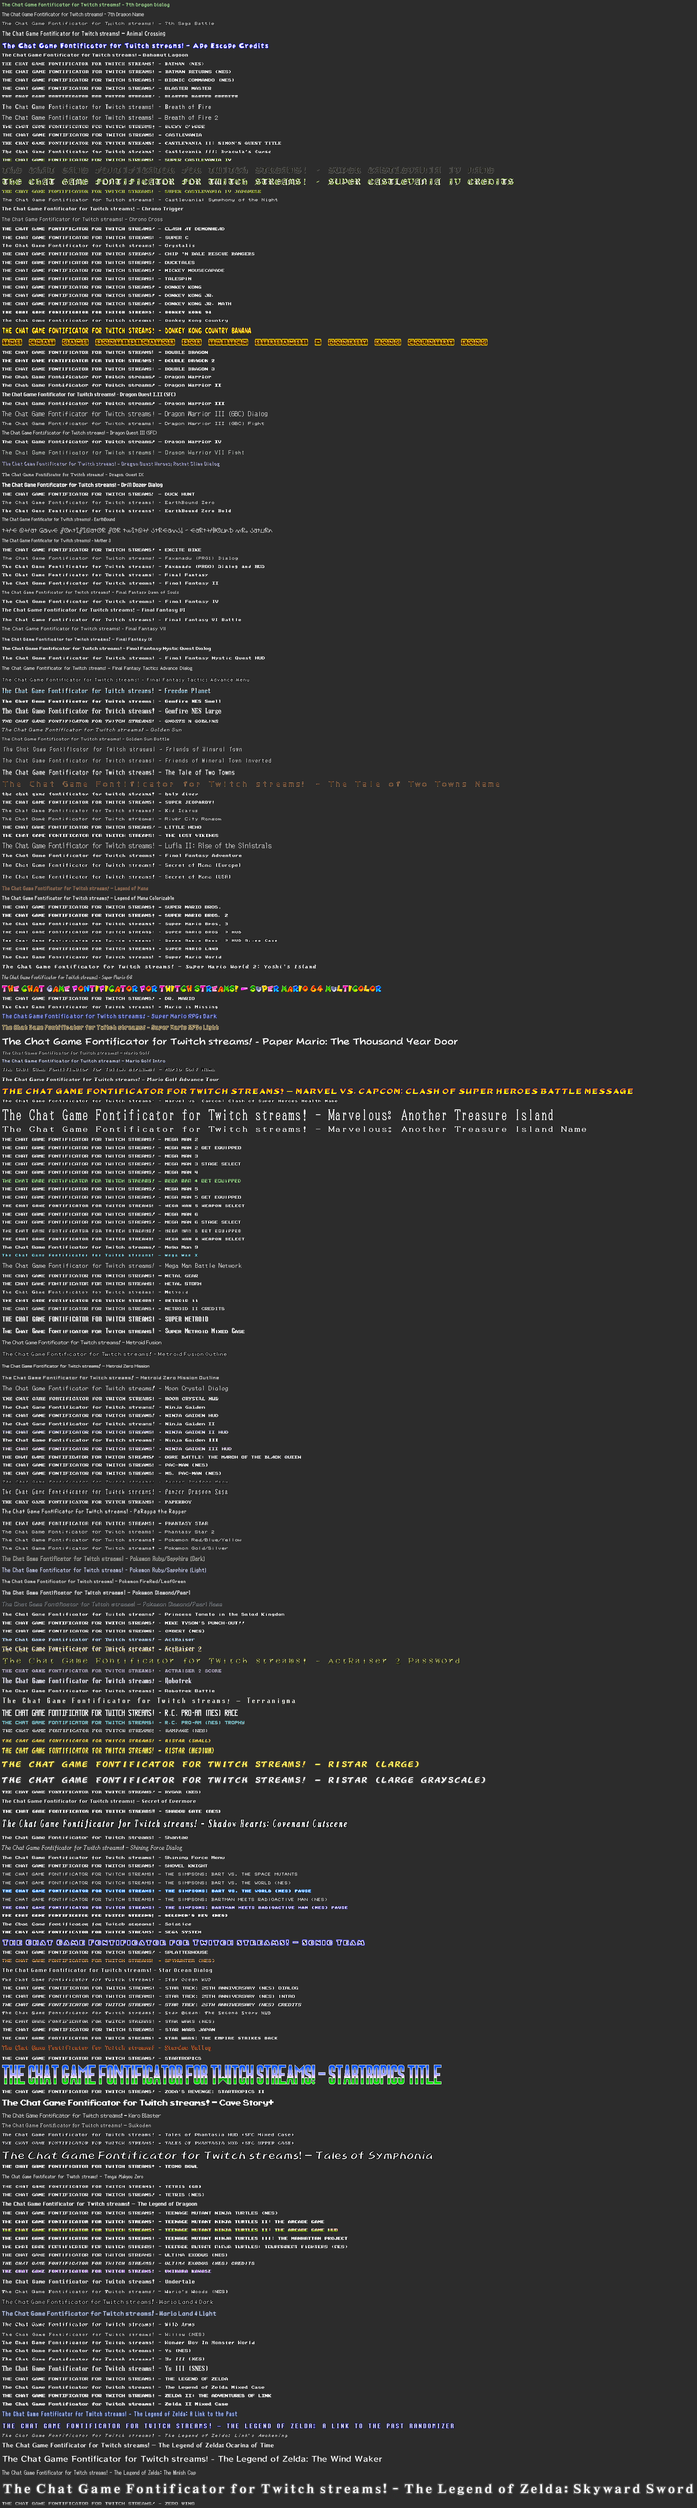
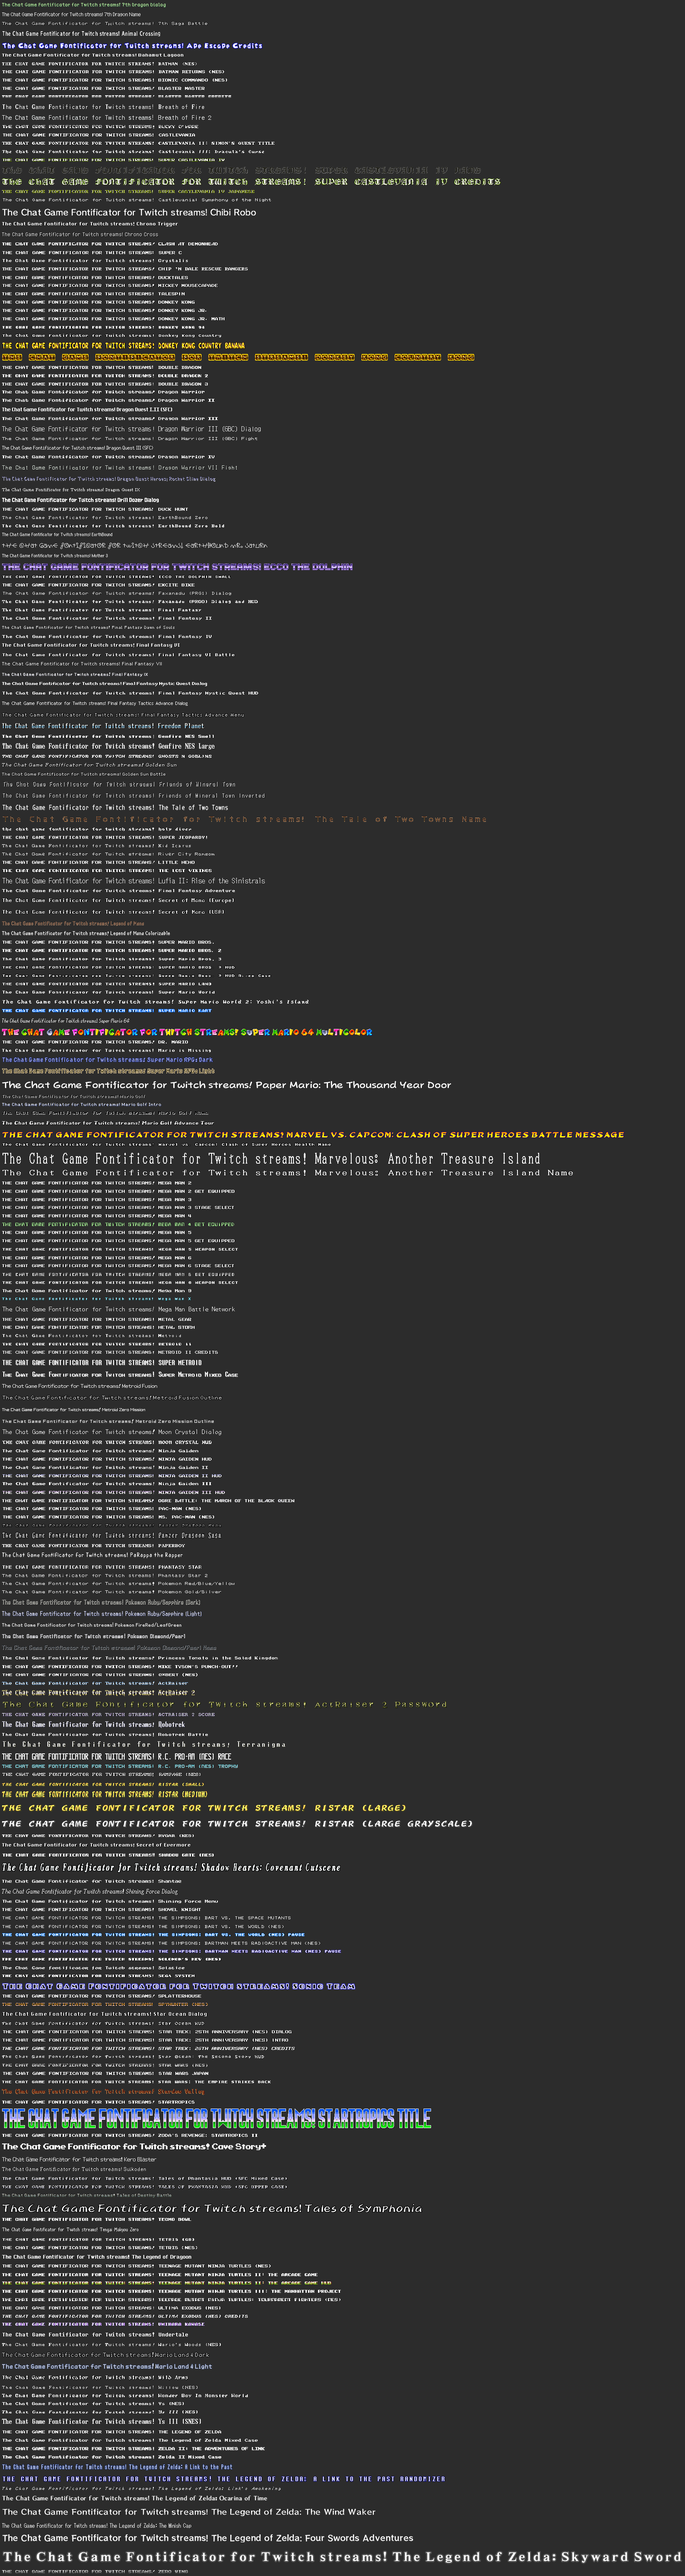
Added fonts for Ecco and Tales of Destiny (battle), and fixed Spy Hunter delete char

diff --git a/README.md b/README.md
@@ -189,6 +189,8 @@ I'm sorry, I should have mentioned that you can use the Font/Border tab to selec
   - EarthBound Zero Bold
   - EarthBound
   - EarthBound Mr. Saturn
+  - Ecco the Dolphin
+  - Ecco the Dolphin Small
   - Excite Bike
   - Mother 3
   - Faxanadu
@@ -328,6 +330,7 @@ I'm sorry, I should have mentioned that you can use the Font/Border tab to selec
   - Zoda's Revenge: StarTropics II
   - Suikoden
   - Tales of Phantasia (SFC)
+  - Tales of Destiny Battle
   - Tales of Symphonia
   - TaleSpin (NES)
   - Tecmo Bowl
